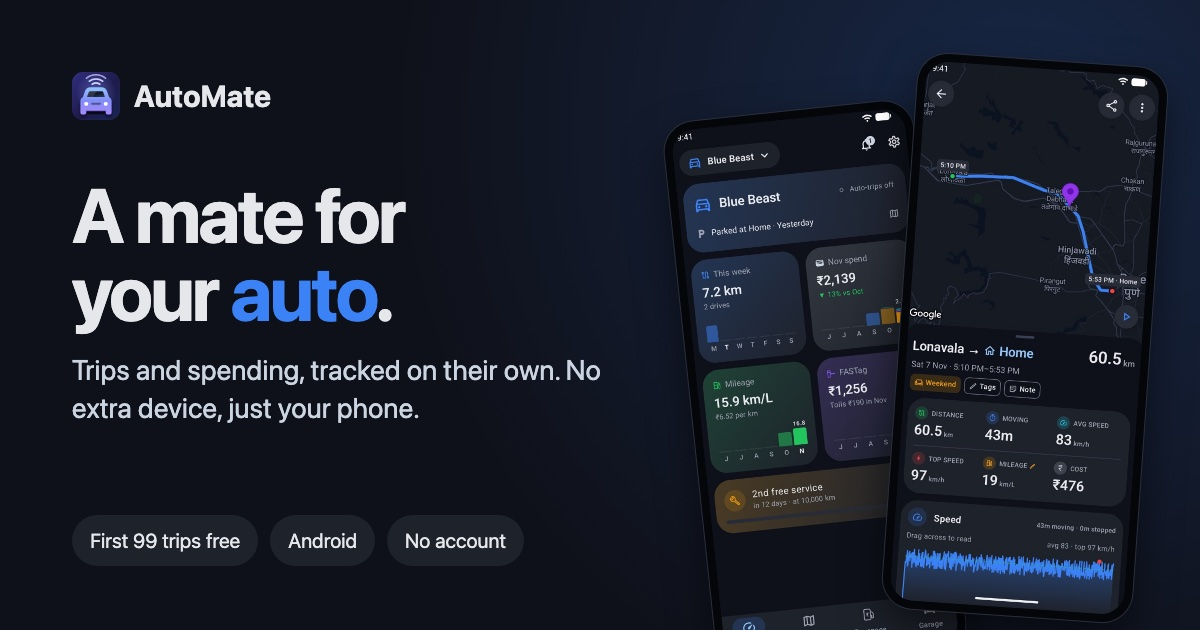
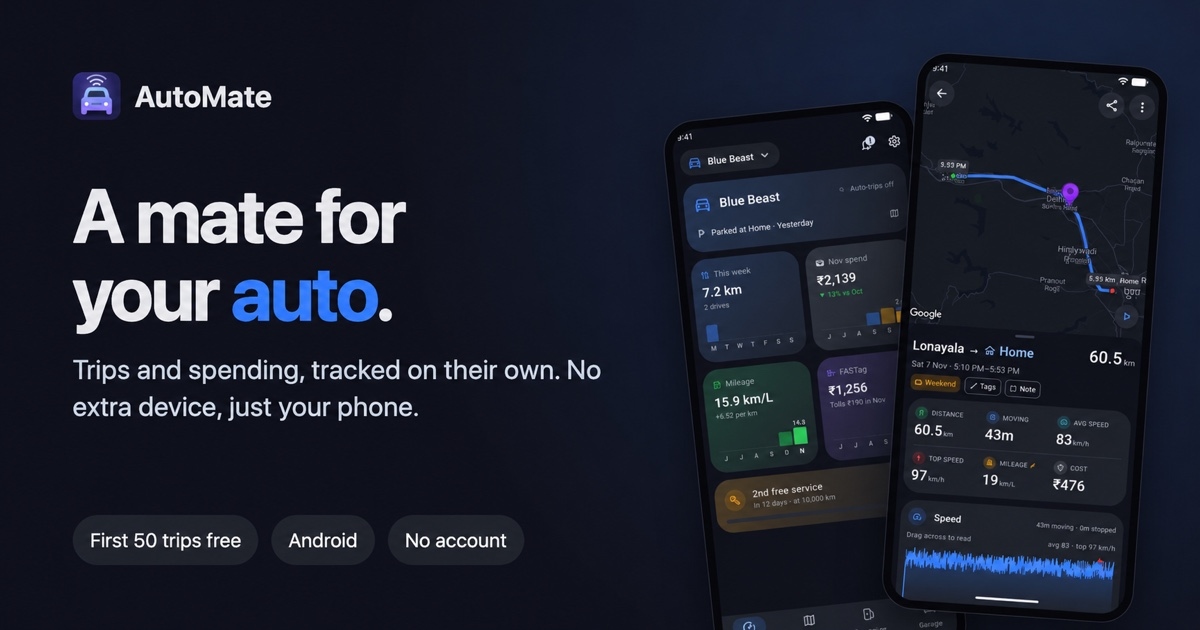
fix(site): correct social preview to 50 free trips

diff --git a/site/how-it-works.html b/site/how-it-works.html
@@ -14,7 +14,7 @@
 <meta property="og:url" content="https://getautomate.in/how-it-works.html">
 <meta property="og:site_name" content="AutoMate">
 <meta property="og:locale" content="en_IN">
-<meta property="og:image" content="https://getautomate.in/img/og.jpg">
+<meta property="og:image" content="https://getautomate.in/img/og.jpg?v=9339975a6293">
 <meta property="og:image:width" content="1200">
 <meta property="og:image:height" content="630">
 <meta property="og:image:alt" content="AutoMate: a mate for your auto. Trips and spending, tracked on your Android phone.">

diff --git a/site/delete-data.html b/site/delete-data.html
@@ -14,7 +14,7 @@
 <meta property="og:url" content="https://getautomate.in/delete-data.html">
 <meta property="og:site_name" content="AutoMate">
 <meta property="og:locale" content="en_IN">
-<meta property="og:image" content="https://getautomate.in/img/og.jpg">
+<meta property="og:image" content="https://getautomate.in/img/og.jpg?v=9339975a6293">
 <meta property="og:image:width" content="1200">
 <meta property="og:image:height" content="630">
 <meta property="og:image:alt" content="AutoMate: a mate for your auto. Trips and spending, tracked on your Android phone.">

diff --git a/site/pricing.html b/site/pricing.html
@@ -14,7 +14,7 @@
 <meta property="og:url" content="https://getautomate.in/pricing.html">
 <meta property="og:site_name" content="AutoMate">
 <meta property="og:locale" content="en_IN">
-<meta property="og:image" content="https://getautomate.in/img/og.jpg">
+<meta property="og:image" content="https://getautomate.in/img/og.jpg?v=9339975a6293">
 <meta property="og:image:width" content="1200">
 <meta property="og:image:height" content="630">
 <meta property="og:image:alt" content="AutoMate: a mate for your auto. Trips and spending, tracked on your Android phone.">

diff --git a/site/privacy.html b/site/privacy.html
@@ -14,7 +14,7 @@
 <meta property="og:url" content="https://getautomate.in/privacy.html">
 <meta property="og:site_name" content="AutoMate">
 <meta property="og:locale" content="en_IN">
-<meta property="og:image" content="https://getautomate.in/img/og.jpg">
+<meta property="og:image" content="https://getautomate.in/img/og.jpg?v=9339975a6293">
 <meta property="og:image:width" content="1200">
 <meta property="og:image:height" content="630">
 <meta property="og:image:alt" content="AutoMate: a mate for your auto. Trips and spending, tracked on your Android phone.">

diff --git a/site/roadmap.html b/site/roadmap.html
@@ -14,7 +14,7 @@
 <meta property="og:url" content="https://getautomate.in/roadmap.html">
 <meta property="og:site_name" content="AutoMate">
 <meta property="og:locale" content="en_IN">
-<meta property="og:image" content="https://getautomate.in/img/og.jpg">
+<meta property="og:image" content="https://getautomate.in/img/og.jpg?v=9339975a6293">
 <meta property="og:image:width" content="1200">
 <meta property="og:image:height" content="630">
 <meta property="og:image:alt" content="AutoMate: a mate for your auto. Trips and spending, tracked on your Android phone.">

diff --git a/site/setup.html b/site/setup.html
@@ -14,7 +14,7 @@
 <meta property="og:url" content="https://getautomate.in/setup.html">
 <meta property="og:site_name" content="AutoMate">
 <meta property="og:locale" content="en_IN">
-<meta property="og:image" content="https://getautomate.in/img/og.jpg">
+<meta property="og:image" content="https://getautomate.in/img/og.jpg?v=9339975a6293">
 <meta property="og:image:width" content="1200">
 <meta property="og:image:height" content="630">
 <meta property="og:image:alt" content="AutoMate: a mate for your auto. Trips and spending, tracked on your Android phone.">

diff --git a/site/terms.html b/site/terms.html
@@ -14,7 +14,7 @@
 <meta property="og:url" content="https://getautomate.in/terms.html">
 <meta property="og:site_name" content="AutoMate">
 <meta property="og:locale" content="en_IN">
-<meta property="og:image" content="https://getautomate.in/img/og.jpg">
+<meta property="og:image" content="https://getautomate.in/img/og.jpg?v=9339975a6293">
 <meta property="og:image:width" content="1200">
 <meta property="og:image:height" content="630">
 <meta property="og:image:alt" content="AutoMate: a mate for your auto. Trips and spending, tracked on your Android phone.">

diff --git a/site/faq.html b/site/faq.html
@@ -14,7 +14,7 @@
 <meta property="og:url" content="https://getautomate.in/faq.html">
 <meta property="og:site_name" content="AutoMate">
 <meta property="og:locale" content="en_IN">
-<meta property="og:image" content="https://getautomate.in/img/og.jpg">
+<meta property="og:image" content="https://getautomate.in/img/og.jpg?v=9339975a6293">
 <meta property="og:image:width" content="1200">
 <meta property="og:image:height" content="630">
 <meta property="og:image:alt" content="AutoMate: a mate for your auto. Trips and spending, tracked on your Android phone.">

diff --git a/site/index.html b/site/index.html
@@ -14,7 +14,7 @@
 <meta property="og:url" content="https://getautomate.in/">
 <meta property="og:site_name" content="AutoMate">
 <meta property="og:locale" content="en_IN">
-<meta property="og:image" content="https://getautomate.in/img/og.jpg">
+<meta property="og:image" content="https://getautomate.in/img/og.jpg?v=9339975a6293">
 <meta property="og:image:width" content="1200">
 <meta property="og:image:height" content="630">
 <meta property="og:image:alt" content="AutoMate: a mate for your auto. Trips and spending, tracked on your Android phone.">

diff --git a/site/404.html b/site/404.html
@@ -14,7 +14,7 @@
 <meta name="robots" content="noindex">
 <meta property="og:site_name" content="AutoMate">
 <meta property="og:locale" content="en_IN">
-<meta property="og:image" content="https://getautomate.in/img/og.jpg">
+<meta property="og:image" content="https://getautomate.in/img/og.jpg?v=9339975a6293">
 <meta property="og:image:width" content="1200">
 <meta property="og:image:height" content="630">
 <meta property="og:image:alt" content="AutoMate: a mate for your auto. Trips and spending, tracked on your Android phone.">

diff --git a/AGENTS.md b/AGENTS.md
@@ -166,3 +166,5 @@ Final homepage accent preference (owner, 24 Nov): Expenses amber-orange; Garage 
 
 ## Closed beta section (owner selected C, 24 Nov)
 Replace home-benefits with option C beta section, at that original location. Three links in order: Google Group, Play tester opt-in, Play listing; same Google account across all three. Header CTA on every page says Join the beta and targets index.html#beta. Bottom get section also points to beta, with no Coming soon badge. Closed-test access requires the first two steps; do not imply public availability or free paid features.
+
+Social preview correction (owner approved, 24 Nov): og.jpg uses the approved refreshed image with “First 50 trips free”. All ten pages reference the same content-hashed image query to refresh crawler image caches when the asset changes. Export at 1200×630; update the hash whenever the image changes.
